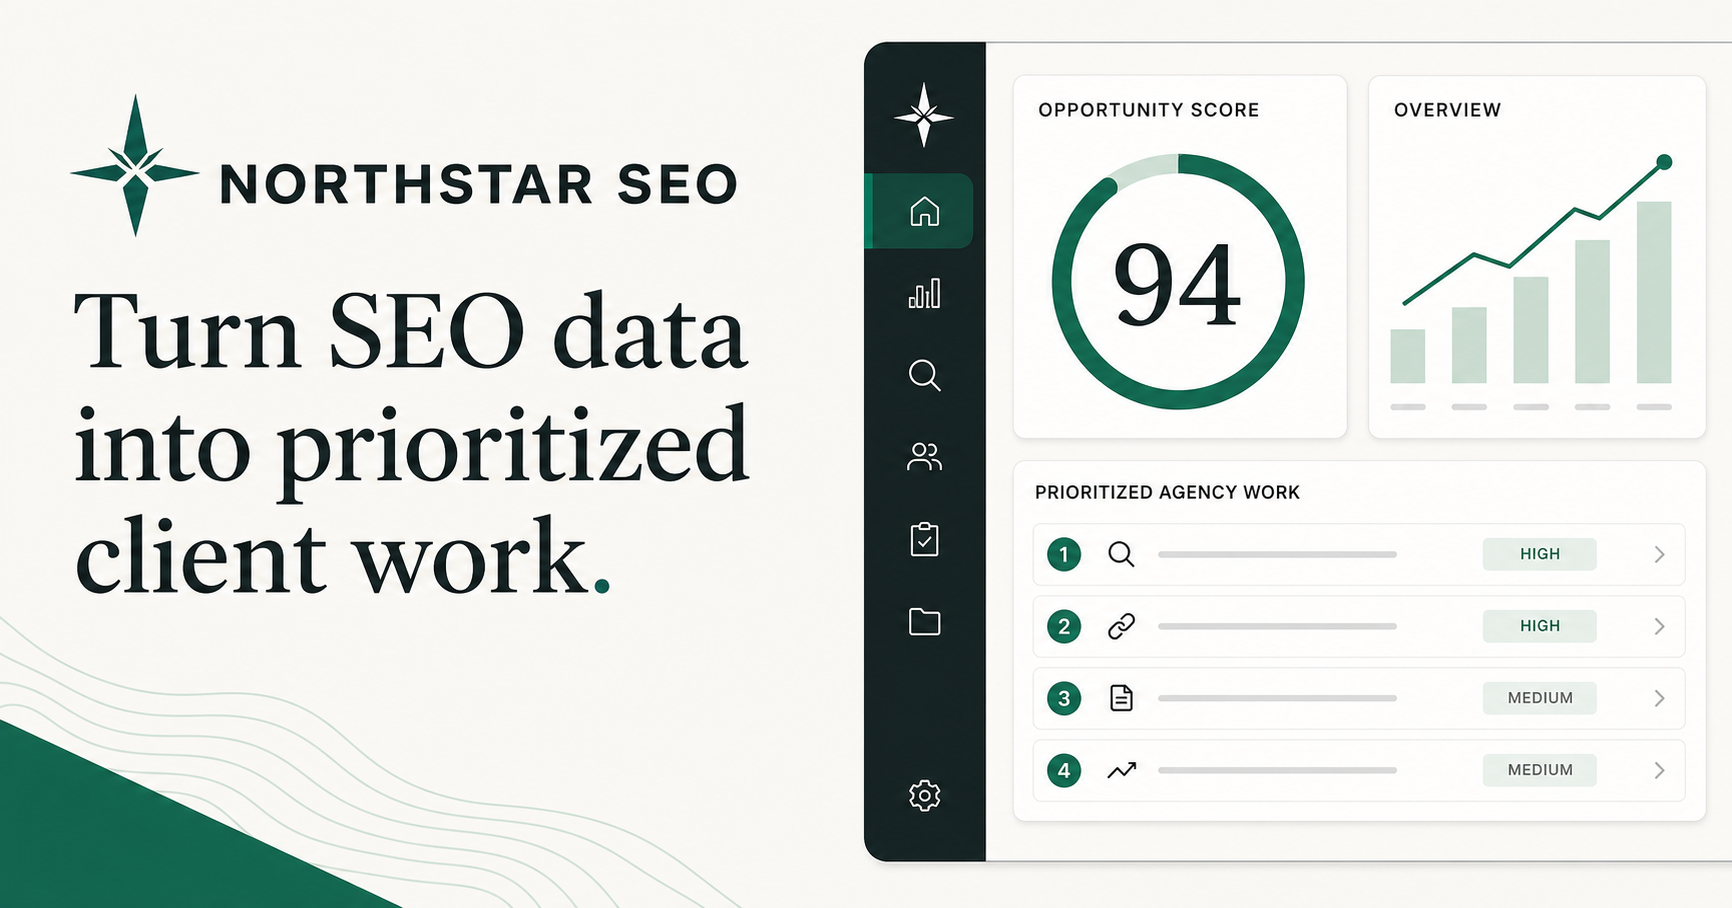
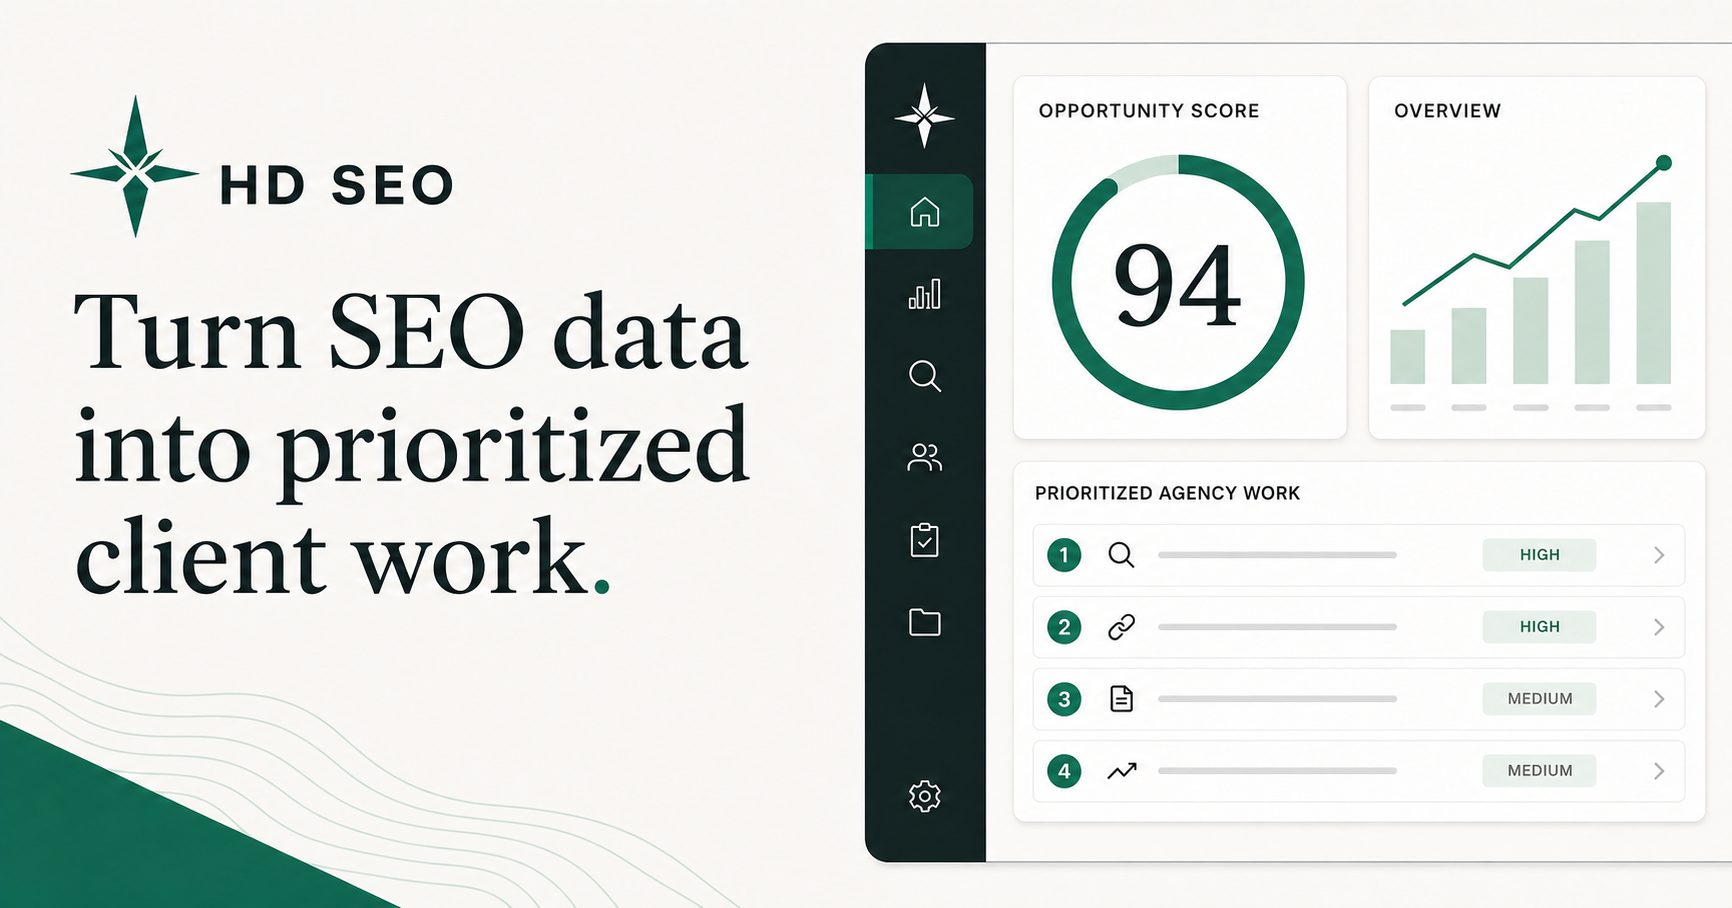
chore: rebrand product as HD SEO

diff --git a/app/ui/agency-dashboard.tsx b/app/ui/agency-dashboard.tsx
@@ -75,10 +75,10 @@ export function AgencyDashboard() {
   return (
     <main className="app-shell">
       <aside className={`sidebar ${mobileNav ? "mobile-open" : ""}`}>
-        <div className="brand"><BrandMark /><span>Northstar <em>SEO</em></span><button className="mobile-close" onClick={() => setMobileNav(false)} aria-label="Close navigation">×</button></div>
+        <div className="brand"><BrandMark /><span>HD <em>SEO</em></span><button className="mobile-close" onClick={() => setMobileNav(false)} aria-label="Close navigation">×</button></div>
         <div className="workspace-switcher">
           <div className="workspace-avatar">NA</div>
-          <div><span>WORKSPACE</span><strong>Northstar Agency</strong></div>
+          <div><span>WORKSPACE</span><strong>HD SEO Agency</strong></div>
           <button aria-label="Switch workspace">⌄</button>
         </div>
         <nav aria-label="Primary navigation">
@@ -104,7 +104,7 @@ export function AgencyDashboard() {
       <section className="main-panel">
         <header className="topbar">
           <button className="menu-button" onClick={() => setMobileNav(true)} aria-label="Open navigation">☰</button>
-          <div className="breadcrumbs"><span>Northstar Agency</span><b>/</b><strong>{active}</strong></div>
+          <div className="breadcrumbs"><span>HD SEO Agency</span><b>/</b><strong>{active}</strong></div>
           <div className="top-actions"><button aria-label="Search">⌕</button><button className="notification" aria-label="Notifications">♢<i /></button><button className="add-client" onClick={() => notify("New client onboarding opened")}>＋ Add client</button></div>
         </header>
 
@@ -154,7 +154,7 @@ export function AgencyDashboard() {
             <div className="section-header"><div><h2>Agency work queue</h2><p>Prioritized work that needs attention</p></div><div><button className="filter-button">≡ Filter</button><button onClick={() => setActive("Work queue")}>View full queue →</button></div></div>
             <div className="queue-list">{queue.map((item, index) => <article key={item.title}><span className="queue-number">0{index + 1}</span><div className="queue-copy"><h3>{item.title}</h3><p><strong>{item.client}</strong><span>·</span>{item.meta}</p></div><span className={`priority-pill ${item.priority === "MED" ? "medium" : ""}`}>{item.priority}</span><div className="queue-due"><small>DUE</small><strong>{item.due}</strong></div><button onClick={() => notify(`${item.action} workflow opened`)}>{item.action}</button></article>)}</div>
           </section>
-          <footer className="content-footer"><span><BrandMark small /> Northstar SEO</span><p>Last synced 18 minutes ago · All systems operational</p><button onClick={() => notify("Support center opened")}>? Help & support</button></footer>
+          <footer className="content-footer"><span><BrandMark small /> HD SEO</span><p>Last synced 18 minutes ago · All systems operational</p><button onClick={() => notify("Support center opened")}>? Help & support</button></footer>
         </div>
       </section>
 

diff --git a/app/layout.tsx b/app/layout.tsx
@@ -13,10 +13,10 @@ export async function generateMetadata(): Promise<Metadata> {
   const image = `${protocol}://${host}/og.png`;
 
   return {
-    title: "Northstar SEO — Agency Operating System",
+    title: "HD SEO — Agency Operating System",
     description: "Prioritize, approve, execute, and measure SEO work across every client.",
-    openGraph: { title: "Northstar SEO", description: "Turn SEO data into prioritized client work.", type: "website", images: [{ url: image, width: 1732, height: 908, alt: "Northstar SEO agency operating system" }] },
-    twitter: { card: "summary_large_image", title: "Northstar SEO", description: "Turn SEO data into prioritized client work.", images: [image] },
+    openGraph: { title: "HD SEO", description: "Turn SEO data into prioritized client work.", type: "website", images: [{ url: image, width: 1732, height: 908, alt: "HD SEO agency operating system" }] },
+    twitter: { card: "summary_large_image", title: "HD SEO", description: "Turn SEO data into prioritized client work.", images: [image] },
   };
 }
 